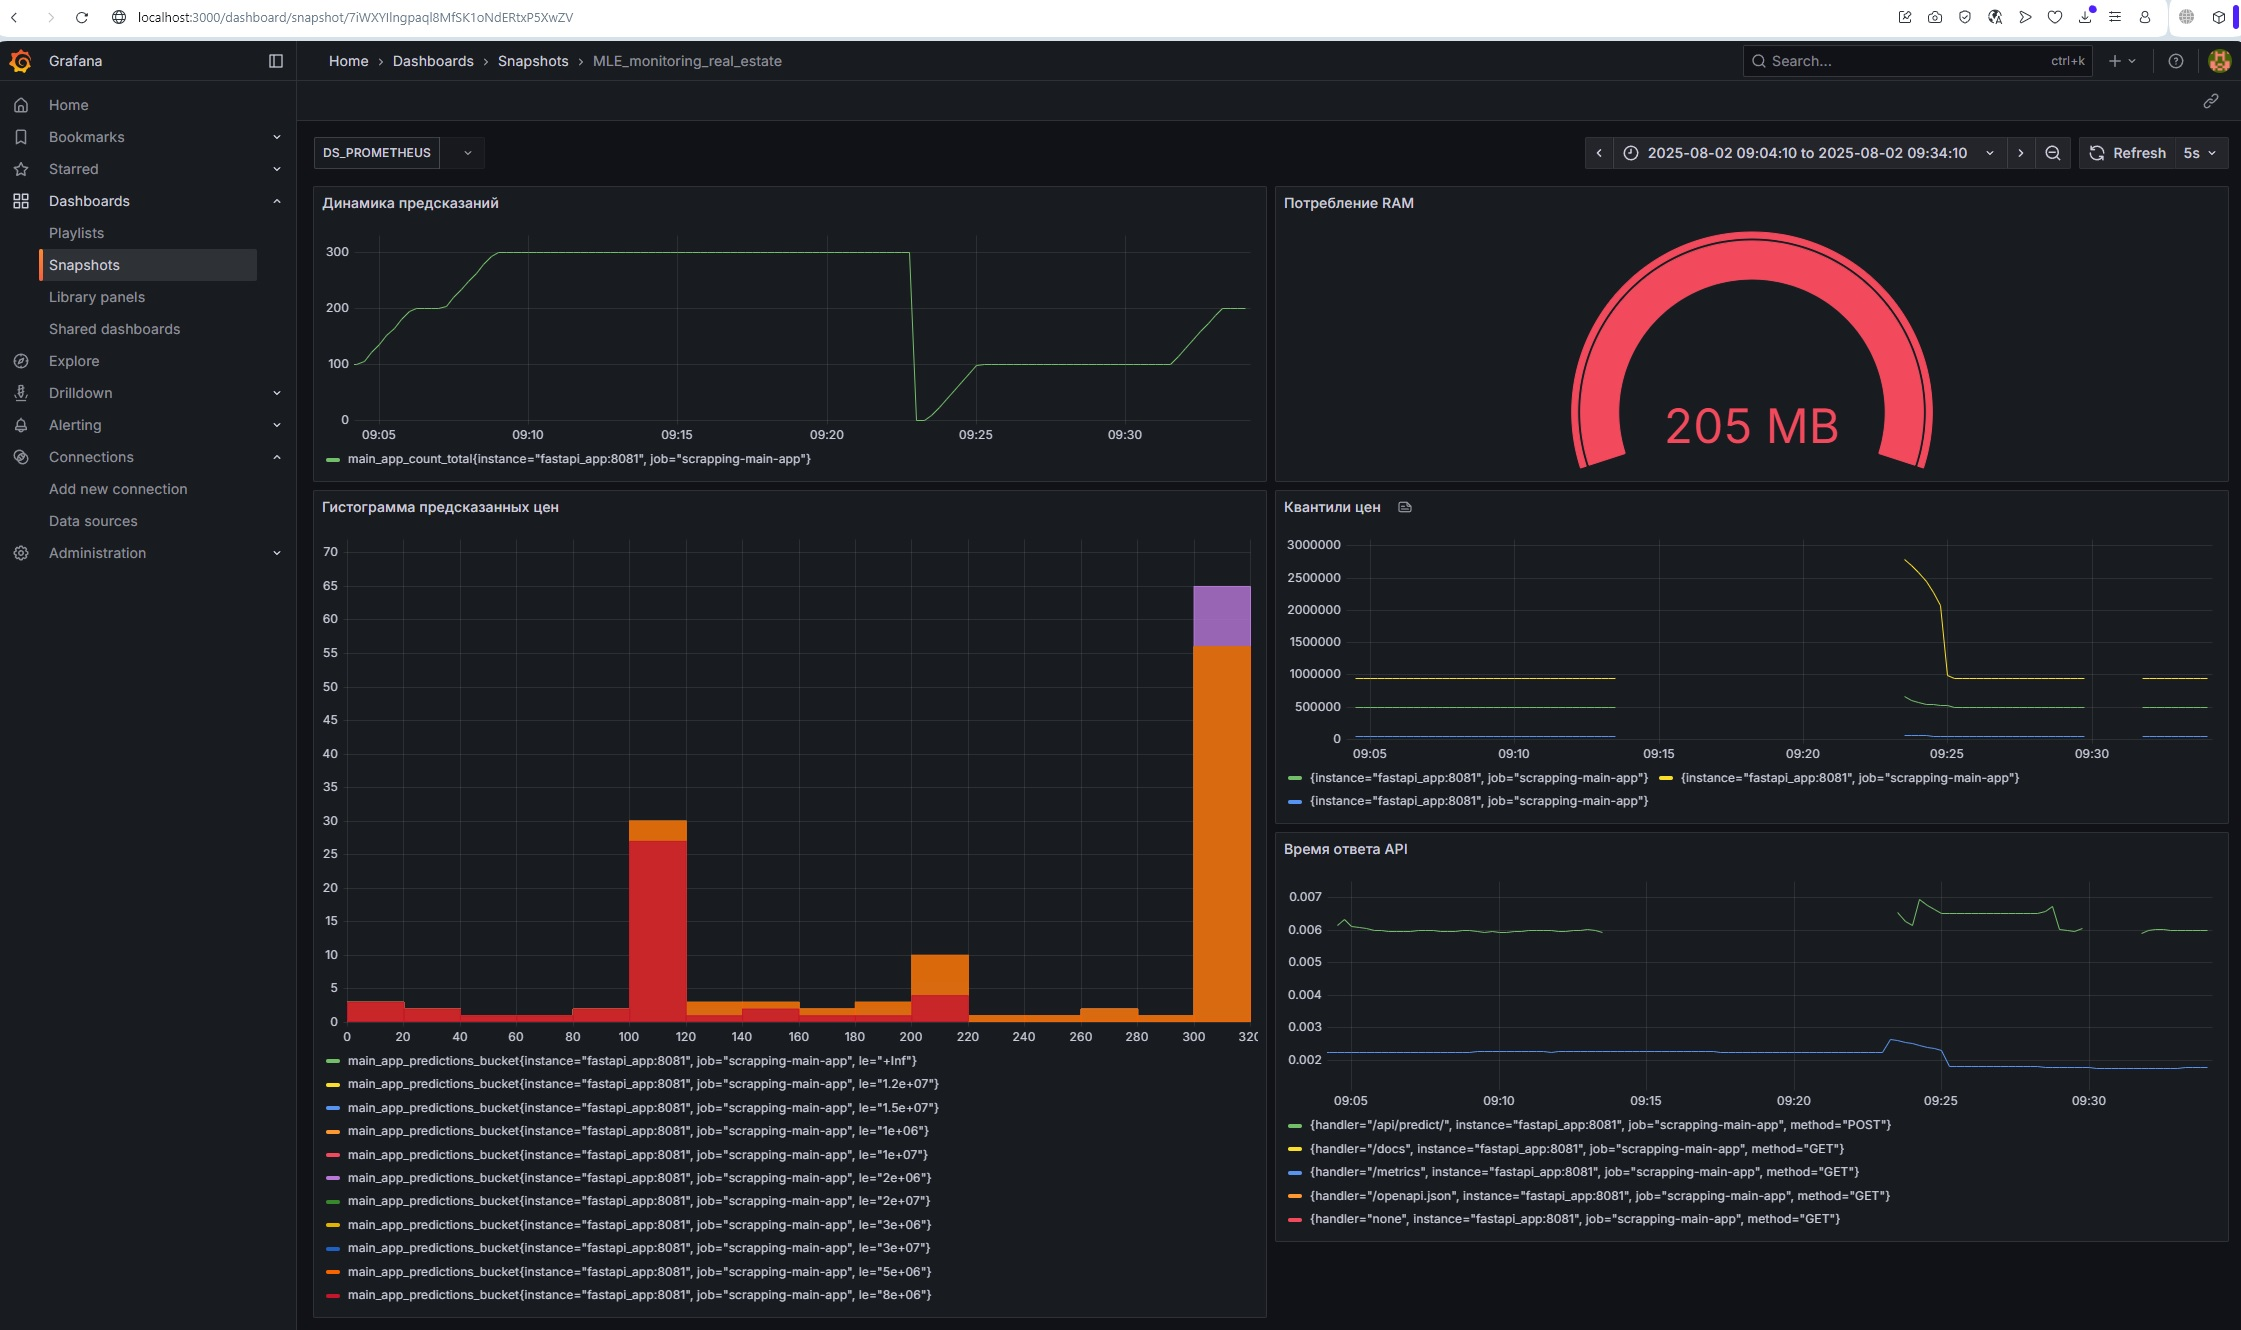
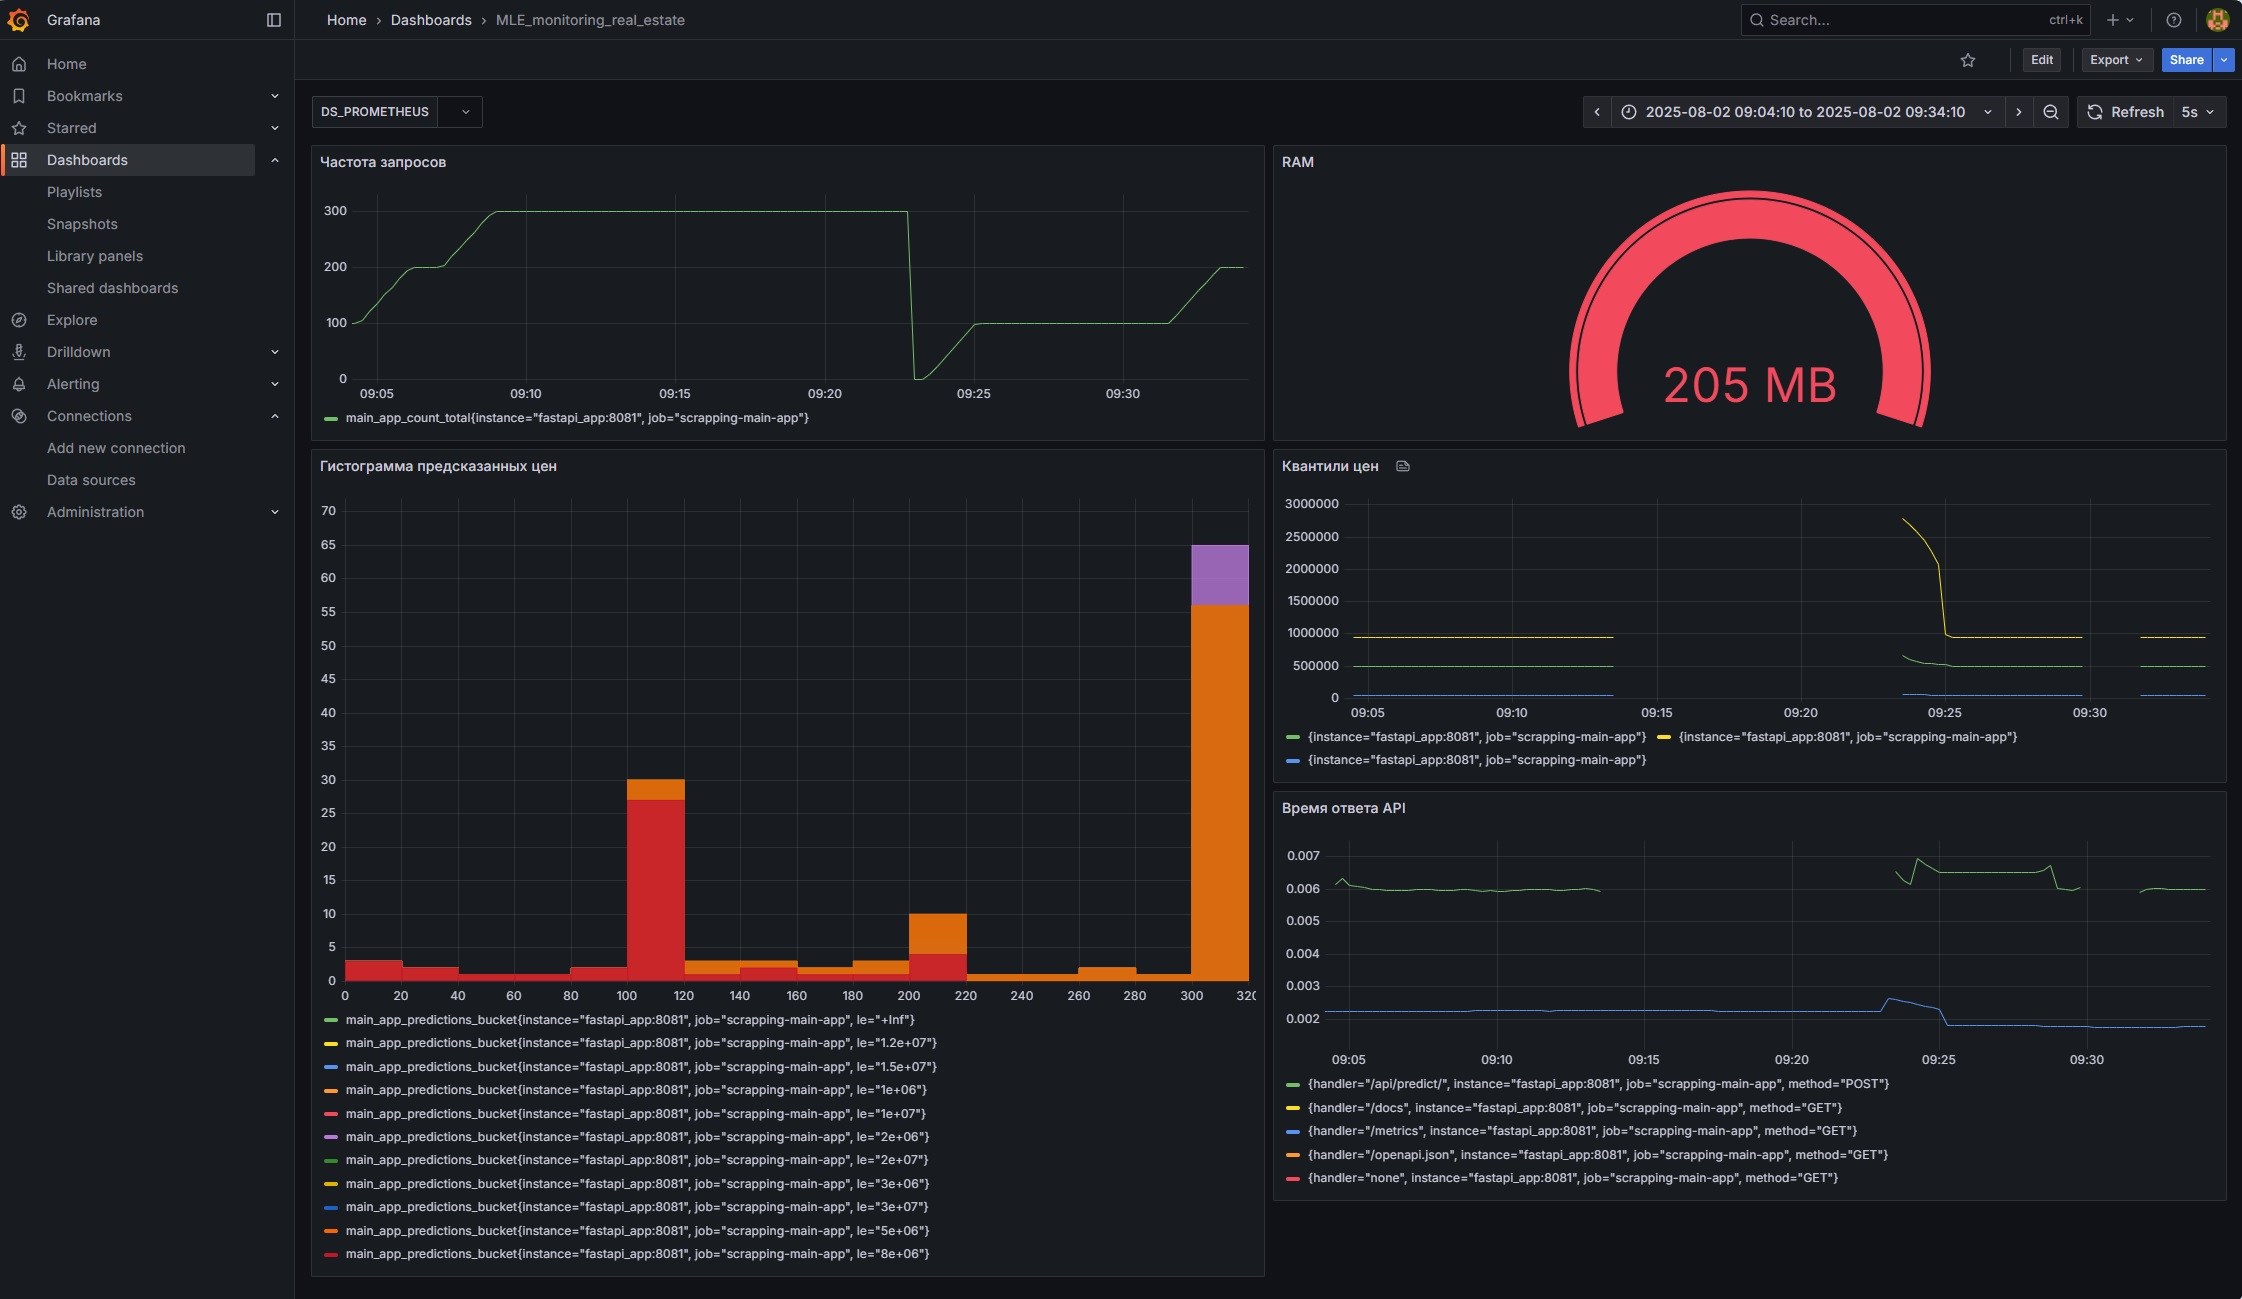
instractions_monitoring_md

diff --git a/Monitoring.md b/Monitoring.md
@@ -1,27 +1,35 @@
 # Мониторинг
 
-<Общее описание вашего мониторинга и дашборда>
+Графики на дашборде представляют временные ряды данных, метрики производительности и статистику использования модели.  
+Для мониторинга метрик необходимо перейти в Grafana: http://localhost:3000/
 
 
-
-## Для мониторинга выбраны метрики нескольких слоев:
+## Для мониторинга выбраны метрики нескольких слоев:  
 
 ### Инфраструткурный слой:
-- <Метрика ...>
+- Метрика `RAM`:  
+    - Потребление памяти — критически важный показатель для стабильности сервиса.  
+    - Позволяет обнаружить утечки памяти или неоптимальную работу модели (например, загрузку тяжелых весов при каждом запросе).  
 
-Эта метрика выбрана, так как ... 
-Используется линейный график, потому что ...
-
-
-### Метрики реального времени:
-- <Метрика ...>
-
-Эта метрика выбрана, так как ... 
-Используется линейный график, потому что ...
-
-...
+### Метрики реального времени:  
+- Метрика `Квантили ответов модели`. Квантили (0.05, 0.5, 0.95) помогают отслеживать:  
+    - Сдвиг предсказаний (data drift).  
+    - Выбросы (аномально высокие/низкие предсказания).  
+    - Стабильность модели (если медиана резко изменилась — это тревожный сигнал).  
+- Метрика `Время ответа API` относится к инфраструктурным метрикам(Мониторинг здоровья сервиса) и метрикам производительности(Фиксируется для каждого запроса):  
+    - Производительность системы. Рост времени ответа может указывать на: нехватку CPU/RAM, проблемы с сетью, перегруженность БД или внешних сервисов.  
+    - Качество ML-модели.
+        - Сложность предсказаний (если /api/predict работает медленнее других эндпоинтов — возможно, модель требует оптимизации).
+        - Дрейф данных (резкий рост времени обработки может сигнализировать о неожиданных входных данных).  ...
 
 ### Метрики прикладного уровня:
+- Метрика `Частота запросов`:  
+    - Нагрузку на сервис (можно планировать масштабирование).  
+    - Эффективность маркетинга (например, всплеск запросов после рекламы).  
+    - Аномалии (например, DDoS-атака или сбой в клиентском приложении).  
+- Метрика `Гистограмма предсказанных цен`:  
+    - Распределение предсказаний (нормальное/аномальное).  
+    - Смещение модели (например, если 90% предсказаний в диапазоне 1M–2M, а реальные цены 3M–5M).  
+    - Популярные категории недвижимости (можно оптимизировать модель под них).  
 
-...
-
+![скрин](dashboard.jpg)

diff --git a/Instructions.md b/Instructions.md
@@ -22,7 +22,7 @@ pip install -r requirements.txt
 ```
 ```bash
 # Команда перехода в директорию:
-cd ./services/
+cd ./services
 ```
 ```bash
 # Команда запуска сервиса с помощью uvicorn:
@@ -62,7 +62,7 @@ curl -X 'POST' \
 
 ```bash
 # Команда перехода в нужную директорию:
-cd ./services/
+cd ./services
 ```
 ```bash
 # Собираем образ:
@@ -128,11 +128,7 @@ curl -X 'POST' \
 
 ```bash
 # команда перехода в нужную директорию
-cd ./services/
-```
-```bash
-# Загрузите переменные из .env:
-export $(grep -v '^#' .env | xargs)
+cd ./services
 ```
 ```bash
 # команда для запуска микросервиса в режиме docker compose

diff --git a/README.md b/README.md
@@ -2,4 +2,7 @@
 
 Полное описание проекта хранится в уроке «Проект. Релиз модели в продакшен» на учебной платформе. 
 
-Здесь укажите имя вашего бакета:
+Здесь укажите имя вашего бакета: s3-student-mle-20250504-e374587ccc-freetrack
+
+___
+
